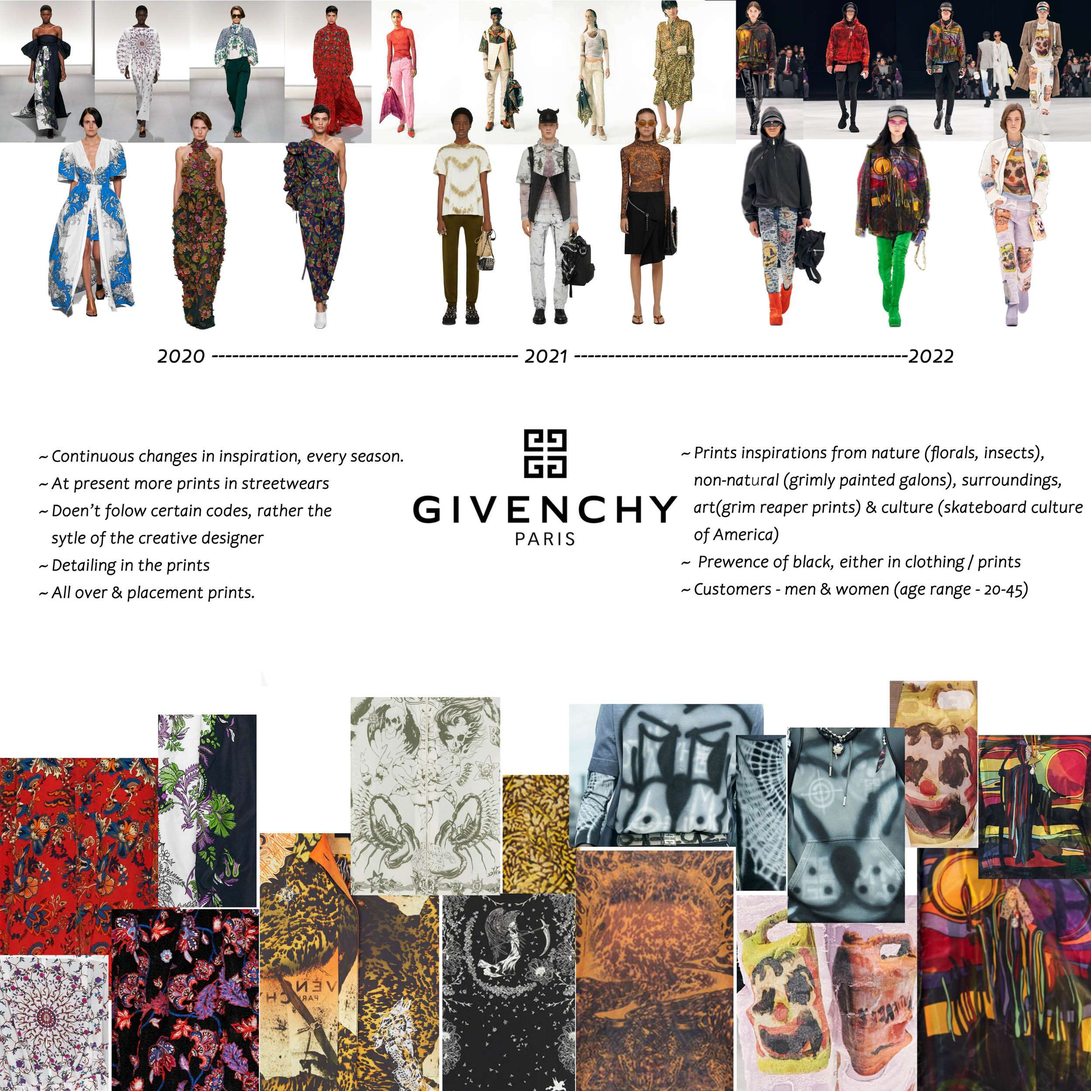
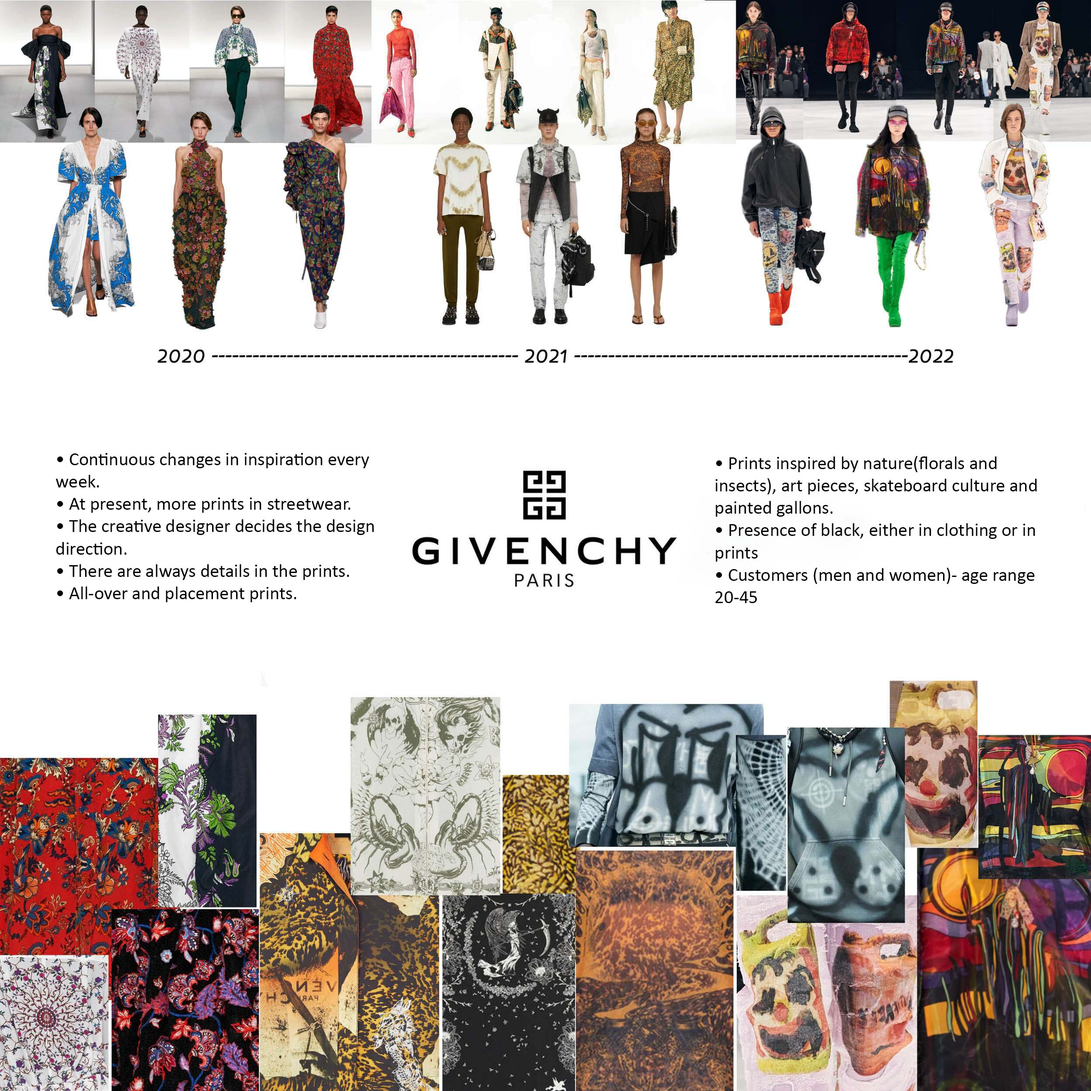
Cha cha changes

Changed region(s): [[0.3744, 0.3744, 0.9672, 0.5616], [0.0312, 0.4056, 0.3744, 0.5616]]

diff --git a/src/works/work7.jsx b/src/works/work7.jsx
@@ -15,17 +15,17 @@ function Work7() {
 
 
 
-                    
 
-                    <br/><br/>
-                    <br/><br/>
+
+                    <br /><br />
+                    <br /><br />
                     <span id="brand" className="bookmark_positioner"></span>
                     <h1>Brand</h1>
                     <br></br>
                     <div className="text">
-                    Selected "Givenchy" and studied the brand and their last two years' print collections.
+                        Selected "Givenchy" and studied the brand and their last two years' print collections.
                     </div>
-                    <br/><br/>
+                    <br /><br />
 
                     <Gallerygrid images={<>
                         <Img height="auto" src='/images/works/digital_nature/2.jpeg' alt="Pranav Shekhawat | Print Design | Digital Nature " />
@@ -33,6 +33,13 @@ function Work7() {
                     <Gallerygrid images={<>
                         <Img height="auto" src='/images/works/digital_nature/3.jpeg' alt="Pranav Shekhawat | Print Design | Digital Nature " />
                     </>} />
+
+                    <br/><br/>
+                    <br/><br/>
+                    <span id="inspiration" className="bookmark_positioner"></span>
+                    <h1>Inspiration</h1>
+                    <br></br>
+                 
                     <Gallerygrid images={<>
                         <Img height="auto" src='/images/works/digital_nature/6.jpeg' alt="Pranav Shekhawat | Print Design | Digital Nature " />
                     </>} />
@@ -84,7 +91,7 @@ function Work7() {
                         <Img height="auto" src='/images/works/digital_nature/28.jpeg' alt="Pranav Shekhawat | Print Design | Digital Nature " />
                     </>} />
 
-                    
+
                     <Gallerygrid images={<>
                         <Img height="auto" src='/images/works/digital_nature/30.jpeg' alt="Pranav Shekhawat | Print Design | Digital Nature " />
                         <Img height="auto" src='/images/works/digital_nature/31.jpeg' alt="Pranav Shekhawat | Print Design | Digital Nature " />
@@ -106,9 +113,9 @@ function Work7() {
                     <Gallerygrid images={<>
                         <Img height="auto" src='/images/works/digital_nature/39.jpeg' alt="Pranav Shekhawat | Print Design | Digital Nature " />
                     </>} />
-                     <Gallerygrid images={<>
+                    <Gallerygrid images={<>
                         <Img height="auto" src='/images/works/digital_nature/40.jpeg' alt="Pranav Shekhawat | Print Design | Digital Nature " />
-                    </>} /> 
+                    </>} />
                     <Gallerygrid images={<>
                         <Img height="auto" src='/images/works/digital_nature/41.jpeg' alt="Pranav Shekhawat | Print Design | Digital Nature " />
                     </>} />
@@ -117,7 +124,7 @@ function Work7() {
                         <Img height="auto" src='/images/works/digital_nature/42.jpeg' alt="Pranav Shekhawat | Print Design | Digital Nature " />
                         <Img height="auto" src='/images/works/digital_nature/43.jpeg' alt="Pranav Shekhawat | Print Design | Digital Nature " />
                     </>} />
-                    
+
                     <Gallerygrid images={<>
                         <Img height="auto" src='/images/works/digital_nature/44.jpeg' alt="Pranav Shekhawat | Print Design | Digital Nature " />
                     </>} />
@@ -130,7 +137,7 @@ function Work7() {
                         <Img height="auto" src='/images/works/digital_nature/48.jpeg' alt="Pranav Shekhawat | Print Design | Digital Nature " />
                         <Img height="auto" src='/images/works/digital_nature/49.jpeg' alt="Pranav Shekhawat | Print Design | Digital Nature " />
                     </>} />
-                    
+
                     <Gallerygrid images={<>
                         <Img height="auto" src='/images/works/digital_nature/52.jpeg' alt="Pranav Shekhawat | Print Design | Digital Nature " />
                         <Img height="auto" src='/images/works/digital_nature/53.jpeg' alt="Pranav Shekhawat | Print Design | Digital Nature " />
@@ -160,7 +167,7 @@ function Work7() {
                         <Img height="auto" src='/images/works/digital_nature/64.jpeg' alt="Pranav Shekhawat | Print Design | Digital Nature " />
                         <Img height="auto" src='/images/works/digital_nature/65.jpeg' alt="Pranav Shekhawat | Print Design | Digital Nature " />
                     </>} />
-                    
+
                     <Gallerygrid images={<>
                         <Img height="auto" src='/images/works/digital_nature/66.jpeg' alt="Pranav Shekhawat | Print Design | Digital Nature " />
                         <Img height="auto" src='/images/works/digital_nature/67.jpeg' alt="Pranav Shekhawat | Print Design | Digital Nature " />

diff --git a/src/works.js b/src/works.js
@@ -135,6 +135,9 @@ export const data = [
         <>
         <Mark to="#overview" title="Overview" />
           <Mark to="#brand" title="Brand" />
+          <Mark to="#inspiration" title="Inspiration" />
+
+
          
         </>
       ),
